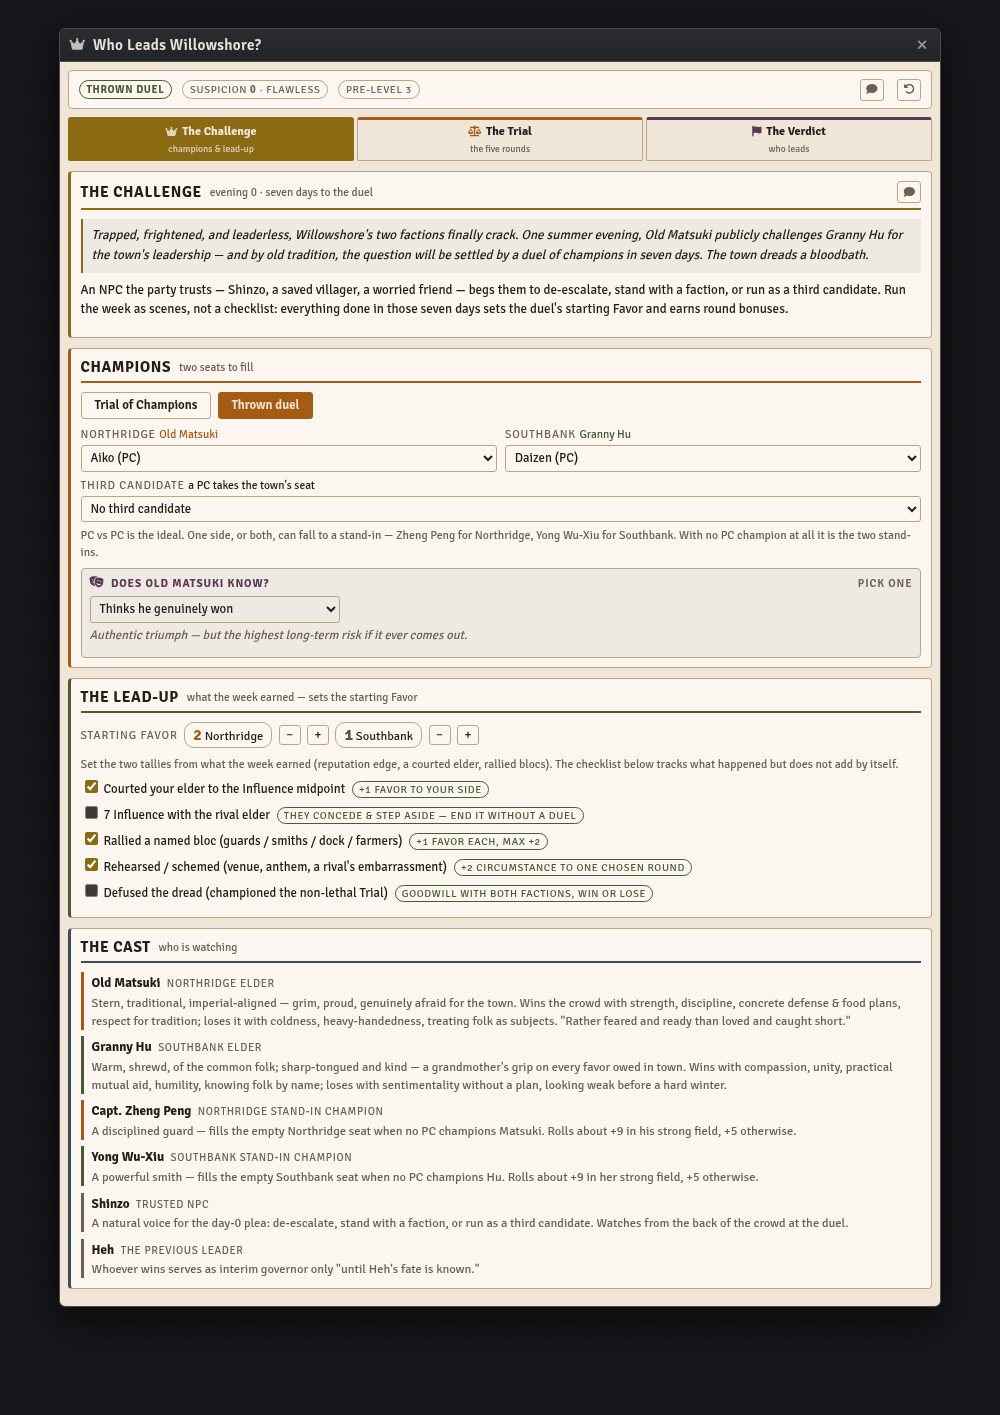
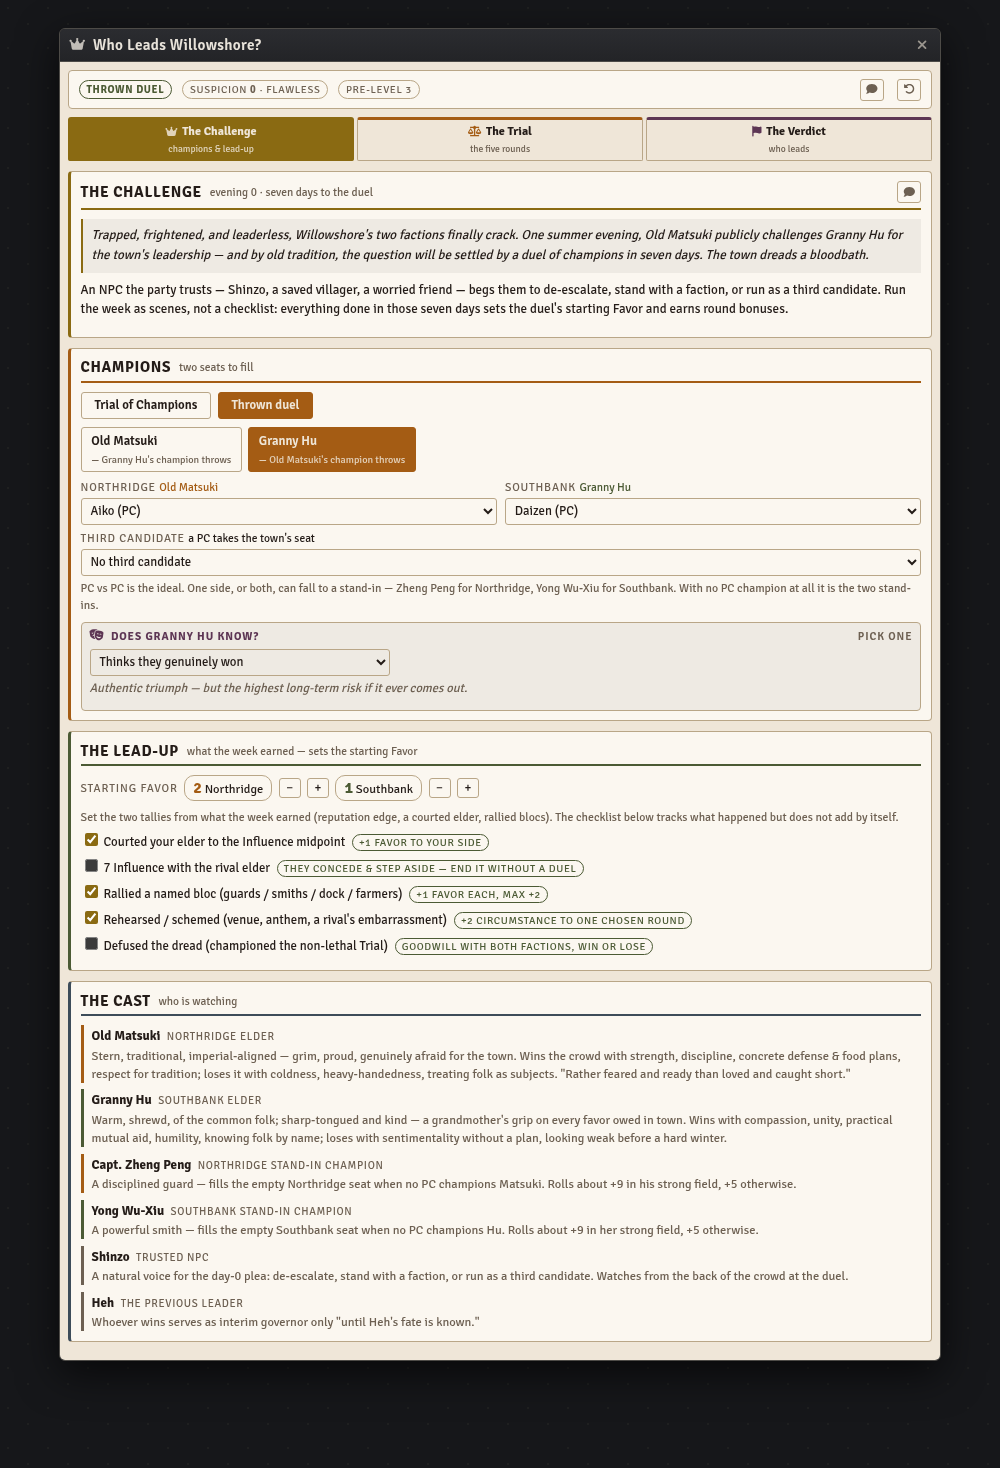
Who Leads Willowshore: selectable fixed winner in the thrown duel (either elder)

Changed region(s): [[0.062, 0.0, 0.93, 0.9329]]

diff --git a/macros/season-of-ghosts/who-leads-willowshore-console.js b/macros/season-of-ghosts/who-leads-willowshore-console.js
@@ -94,10 +94,10 @@ const LEADUP = [
   { key: "defused", label: "Defused the dread (championed the non-lethal Trial)", effect: "goodwill with both factions, win or lose" }
 ];
 
-const MATSUKI_KNOWS = [
+const KNOWS_OPTIONS = [
   { key: "in", label: "In on it", note: "Cleanest, lowest risk — no acting required; the con is airtight." },
-  { key: "won", label: "Thinks he genuinely won", note: "Authentic triumph — but the highest long-term risk if it ever comes out." },
-  { key: "concession", label: "Knows Hu conceded, not that it's thrown", note: "No acting required of him; the fix stays the party's secret." }
+  { key: "won", label: "Thinks they genuinely won", note: "Authentic triumph — but the highest long-term risk if it ever comes out." },
+  { key: "concession", label: "Knows {LE} conceded, not that it's thrown", note: "No acting required of them; the fix stays the party's secret." }
 ];
 
 const ROUNDS = [
@@ -107,7 +107,7 @@ const ROUNDS = [
     dcText: "No fixed DC — the higher degree (then higher total) takes the round; a Society angle (a real, concrete policy) grants +2.",
     text: "Each champion makes the case for their elder before the whole town. Higher degree of success, then higher total, takes the round.",
     crowd: "Faction banners roar; waverers lean toward the better speaker.",
-    thrown: "Hu's champion argues her elder's case half-heartedly and loses with grace — the first sell. Deception or Performance (DC 18) to make the concession read as a close, principled loss.",
+    thrown: "{T} argues {LE}'s case half-heartedly and loses with grace — the first sell. Deception or Performance (DC 18) to make the concession read as a close, principled loss.",
     checks: []
   },
   {
@@ -116,7 +116,7 @@ const ROUNDS = [
     dcText: "Best-of-3 opposed exchanges (attack roll or Athletics); first to two wins. To first yield or disarm.",
     text: "A formal champion's bout to first yield or disarm — non-lethal by the Trial. (Or swap in a formal blood-duel, GM Core pp. 202–203.)",
     crowd: "The loudest round. First blood, if any, flips waverers against the one who drew it.",
-    thrown: "The thrower must fight hard and lose. Deception/Performance DC 18 to sell a valiant near-miss; a clumsy dive reads off. If Hu's champion starts genuinely winning, they have to lose even harder to get back on script.",
+    thrown: "{T} must fight hard and lose. Deception/Performance DC 18 to sell a valiant near-miss; a clumsy dive reads off. If {T} starts genuinely winning, they have to lose even harder to get back on script.",
     checks: []
   },
   {
@@ -125,7 +125,7 @@ const ROUNDS = [
     dcText: "DC 20 Society, or a fitting Lore — or the GM judges the plan the player actually gives.",
     text: "The town's real problem is posed: \"The harvest will fall short and no trade is coming. How do we eat till spring?\" The best plan wins.",
     crowd: "Merchants and farmers swayed; the practical-minded lean to the better plan.",
-    thrown: "Hu's champion offers a solid-but-plain plan and lets Matsuki's \"vision\" outshine it — sell the shrug, not the failure.",
+    thrown: "{T} offers a solid-but-plain plan and lets {W}'s \"vision\" outshine it — sell the shrug, not the failure.",
     checks: ["DC 20 Society"]
   },
   {
@@ -134,7 +134,7 @@ const ROUNDS = [
     dcText: "DC 18 — but judge sincerity over the die.",
     text: "A planted moment of need steps from the crowd — a sick child, a feud between neighbors, a grieving widow. The champion must help, not perform. WORTH DOUBLE FAVOR.",
     crowd: "A cold or cynical handling can lose a champion the whole town, even from ahead.",
-    thrown: "The easiest round to sell — the thrower helps warmly, then defers the credit. But overdoing humility reads as defeatism (+Suspicion).",
+    thrown: "The easiest round to sell — {T} helps warmly, then defers the credit. But overdoing humility reads as defeatism (+Suspicion).",
     checks: ["DC 18 Society", "DC 18 Medicine"],
     double: true
   },
@@ -144,7 +144,7 @@ const ROUNDS = [
     dcText: "Most Favor after Round V wins. A tie is broken by a final opposed Diplomacy before the crowd.",
     text: "Each champion gets one last appeal; then tally all Favor — most Favor acclaims that elder interim governor. The grace note: a unifying gesture (victor honoring loser, loser pledging support) can heal the rift.",
     crowd: "The whole square holds its breath for the tally.",
-    thrown: "THE MONEY SHOT. Matsuki's champion lands the \"deciding\" blow; Hu's champion sells the dramatic, valiant fall — one last Deception/Performance, bonus if Suspicion is low, penalty if high. Granny Hu steps forward, clasps Old Matsuki's hand, and concedes to cheers.",
+    thrown: "THE MONEY SHOT. {W} lands the \"deciding\" blow; {T} sells the dramatic, valiant fall — one last Deception/Performance, bonus if Suspicion is low, penalty if high. {LE} steps forward, clasps {WE}'s hand, and concedes to cheers.",
     checks: []
   }
 ];
@@ -173,7 +173,8 @@ function blankState(pcs) {
     north: { kind: "npc", actorId: "", name: STAND_INS.north },
     south: { kind: "npc", actorId: "", name: STAND_INS.south },
     third: { on: false, kind: "pc", actorId: "", name: "" },
-    matsukiKnows: "in",                  // thrown mode only
+    thrownWinner: "north",               // thrown mode: which elder the fix delivers to
+    knows: "in",                         // thrown mode: does that winner know it's thrown
     favorStart: { north: 0, south: 0 },  // starting Favor set from the lead-up
     leadup: { courted: false, conceded: false, rallied: false, rehearsed: false, defused: false },
     rounds: { r1: null, r2: null, r3: null, r4: null, r5: null },
@@ -265,9 +266,31 @@ class WhoLeads {
     this.touch();
   }
   setKnows(k) {
-    this.s.matsukiKnows = k;
-    this.log(`Old Matsuki knows: ${MATSUKI_KNOWS.find(x => x.key === k)?.label}.`);
+    this.s.knows = k;
+    const opt = KNOWS_OPTIONS.find(x => x.key === k);
+    this.log(`Does ${ELDERS[this.thrownWinnerSide].name} know? — ${this.fillThrown(opt?.label ?? k)}.`);
     this.touch();
+  }
+
+  /* ----- the thrown fix ----- */
+  get thrownWinnerSide() { return this.s.thrownWinner === "south" ? "south" : "north"; }
+  get throwerSide() { return this.thrownWinnerSide === "north" ? "south" : "north"; }
+  get outcomeSide() { return this.s.mode === "thrown" ? this.thrownWinnerSide : this.s.winner; }
+  setThrownWinner(w) {
+    this.s.thrownWinner = w;
+    if (this.s.mode === "thrown") this.s.winner = w;   // keep the verdict in sync
+    this.log(`The fix delivers to ${ELDERS[w].name} — ${ELDERS[this.throwerSide].name}'s champion throws.`);
+    this.touch();
+  }
+  thrownTokens() {
+    const w = this.thrownWinnerSide, t = this.throwerSide;
+    return {
+      "{W}": this.s[w].name, "{T}": this.s[t].name,
+      "{WE}": ELDERS[w].name, "{LE}": ELDERS[t].name
+    };
+  }
+  fillThrown(text) {
+    return Object.entries(this.thrownTokens()).reduce((acc, [k, v]) => acc.split(k).join(v), text);
   }
 
   /* ----- lead-up ----- */
@@ -347,12 +370,12 @@ class WhoLeads {
         rep().southbank = (rep().southbank ?? 0) + d;
         rep().northridge = (rep().northridge ?? 0) + d;
       } else if (key === "backed") {
-        if (this.s.winner === "north") rep().northridge = (rep().northridge ?? 0) + d;
-        else if (this.s.winner === "south") rep().southbank = (rep().southbank ?? 0) + d;
+        if (this.outcomeSide === "north") rep().northridge = (rep().northridge ?? 0) + d;
+        else if (this.outcomeSide === "south") rep().southbank = (rep().southbank ?? 0) + d;
         else ui.notifications.warn("Backing the winner needs a Northridge or Southbank winner selected.");
       } else if (key === "blood") {
-        if (this.s.winner === "north") rep().southbank = (rep().southbank ?? 0) - d;
-        else if (this.s.winner === "south") rep().northridge = (rep().northridge ?? 0) - d;
+        if (this.outcomeSide === "north") rep().southbank = (rep().southbank ?? 0) - d;
+        else if (this.outcomeSide === "south") rep().northridge = (rep().northridge ?? 0) - d;
       }
       await game.settings.set("world", "sogFallDowntime", dt);
     }
@@ -406,7 +429,7 @@ class WhoLeads {
       south: "Granny Hu is acclaimed interim governor of Willowshore. Old Matsuki bows stiffly as the Southbank erupts in cheers.",
       third: `${esc(s.third.name || "A champion")} steps forward to take the town's reins as its new leader.`,
       gm: "The elders step aside, and Willowshore names a new leader to carry it through the coming season."
-    }[s.winner] || "Willowshore names its new leader.";
+    }[this.outcomeSide] || "Willowshore names its new leader.";
     return this.postCard("The People's Verdict", "A new leader for Willowshore",
       `<p style="margin:0">${pro}</p>`, "gold");
   }
@@ -515,6 +538,11 @@ class WLRApp extends BaseApp {
           <button type="button" class="chip ${s.mode === "trial" ? "on" : ""}" data-act="mode" data-m="trial" ${ro ? "disabled" : ""}>Trial of Champions</button>
           <button type="button" class="chip ${s.mode === "thrown" ? "on" : ""}" data-act="mode" data-m="thrown" ${ro ? "disabled" : ""}>Thrown duel</button>
         </div>
+        ${s.mode === "thrown" ? `
+        <div class="fixrow">
+          ${["north", "south"].map(w => `<button type="button" class="chip ${t.thrownWinnerSide === w ? "on" : ""}" data-act="fixwinner" data-w="${w}" ${ro ? "disabled" : ""}>
+            ${esc(ELDERS[w].name)}<small>— ${esc(ELDERS[w === "north" ? "south" : "north"].name)}'s champion throws</small></button>`).join("")}
+        </div>` : ""}
         <div class="champgrid">
           <label class="champsel"><span class="side n">Northridge <i>${esc(ELDERS.north.name)}</i></span>
             <select data-act="champ" data-side="north" ${ro ? "disabled" : ""}>${this.champOptions("north")}</select></label>
@@ -526,11 +554,11 @@ class WLRApp extends BaseApp {
         <p class="hint">PC vs PC is the ideal. One side, or both, can fall to a stand-in — Zheng Peng for Northridge, Yong Wu-Xiu for Southbank. With no PC champion at all it is the two stand-ins.</p>
         ${s.mode === "thrown" ? `
         <div class="knows">
-          <div class="subhead"><i class="fa-solid fa-masks-theater"></i> Does Old Matsuki know? <span>pick one</span></div>
+          <div class="subhead"><i class="fa-solid fa-masks-theater"></i> Does ${esc(ELDERS[t.thrownWinnerSide].name)} know? <span>pick one</span></div>
           <select data-act="knows" ${ro ? "disabled" : ""}>
-            ${MATSUKI_KNOWS.map(k => `<option value="${k.key}" ${s.matsukiKnows === k.key ? "selected" : ""}>${k.label}</option>`).join("")}
+            ${KNOWS_OPTIONS.map(k => `<option value="${k.key}" ${s.knows === k.key ? "selected" : ""}>${esc(t.fillThrown(k.label))}</option>`).join("")}
           </select>
-          <p class="note">${MATSUKI_KNOWS.find(k => k.key === s.matsukiKnows)?.note ?? ""}</p>
+          <p class="note">${esc(t.fillThrown(KNOWS_OPTIONS.find(k => k.key === s.knows)?.note ?? ""))}</p>
         </div>` : ""}
       </section>
 
@@ -600,7 +628,7 @@ class WLRApp extends BaseApp {
   roundPanel(r, ro) {
     const t = this.t, s = t.s;
     const cur = s.rounds[r.key];
-    const body = s.mode === "thrown" && r.thrown ? r.thrown : r.text;
+    const body = s.mode === "thrown" && r.thrown ? t.fillThrown(r.thrown) : r.text;
     const vals = s.mode === "trial"
       ? [["n", `North ${r.double ? "+4" : "+2"}`], ["N", `North ${r.double ? "+6" : "+3"} crit`],
          ["s", `South ${r.double ? "+4" : "+2"}`], ["S", `South ${r.double ? "+6" : "+3"} crit`],
@@ -628,10 +656,12 @@ class WLRApp extends BaseApp {
       <section class="panel" style="--tone:var(--plum)">
         <h3>Who Leads <small>interim governor, until Heh's fate is known</small>
           <button type="button" class="say" data-act="postverdict" title="Post the verdict"><i class="fa-solid fa-comment"></i></button></h3>
-        <div class="winrow">
-          ${WINNERS.map(w => `<button type="button" class="wbtn ${s.winner === w.key ? "on" : ""}" style="--tt:var(--${TONES.includes(w.tone) ? w.tone : "muted"})" data-act="winner" data-w="${w.key}" ${ro ? "disabled" : ""}>
-            <b>${w.label}</b><small>${w.sub}</small></button>`).join("")}
-        </div>
+        ${s.mode === "trial"
+          ? `<div class="winrow">
+              ${WINNERS.map(w => `<button type="button" class="wbtn ${s.winner === w.key ? "on" : ""}" style="--tt:var(--${TONES.includes(w.tone) ? w.tone : "muted"})" data-act="winner" data-w="${w.key}" ${ro ? "disabled" : ""}>
+                <b>${w.label}</b><small>${w.sub}</small></button>`).join("")}
+            </div>`
+          : `<p class="text">The fix delivers to <b>${esc(ELDERS[t.thrownWinnerSide].name)}</b> — set on the Challenge tab. ${esc(ELDERS[t.throwerSide].name)}'s champion throws the fight.</p>`}
       </section>
 
       <section class="panel" style="--tone:var(--moss)">
@@ -665,6 +695,7 @@ class WLRApp extends BaseApp {
       const a = btn.dataset.act;
       if (a === "tab") { t.s.tab = btn.dataset.k; t.touch(); }
       else if (a === "mode") t.setMode(btn.dataset.m);
+      else if (a === "fixwinner") t.setThrownWinner(btn.dataset.w);
       else if (a === "fav") t.setFavorStart(btn.dataset.side, Number(btn.dataset.d));
       else if (a === "round") t.setRound(btn.dataset.k, btn.dataset.code);
       else if (a === "winner") t.setWinner(btn.dataset.w);
@@ -755,6 +786,10 @@ class WLRApp extends BaseApp {
       .wlw .moderow { display:flex; gap:.4rem; margin-bottom:.5rem; }
       .wlw .chip { padding:.3rem .8rem; font-size:.8rem; font-weight:600; }
       .wlw .chip.on { background:var(--ember); border-color:var(--ember); color:var(--paper); }
+      .wlw .fixrow { display:flex; gap:.4rem; flex-wrap:wrap; margin-bottom:.5rem; }
+      .wlw .fixrow .chip { flex-direction:column; align-items:flex-start; padding:.3rem .6rem; text-align:left; white-space:normal; }
+      .wlw .fixrow .chip small { font-size:.64rem; font-weight:400; color:var(--muted); }
+      .wlw .fixrow .chip.on small { color:var(--paper); opacity:.85; }
       .wlw .champgrid { display:grid; grid-template-columns:1fr 1fr; gap:.5rem; margin-bottom:.4rem; }
       .wlw .champsel { display:flex; flex-direction:column; gap:.25rem; font-size:.72rem; }
       .wlw .champsel .side { text-transform:uppercase; letter-spacing:.07em; color:var(--muted); }

diff --git a/tools/preview/fixtures.js b/tools/preview/fixtures.js
@@ -784,7 +784,8 @@ globalThis.FIXTURES = {
       mode: "thrown",
       north: { kind: "pc", actorId: "pc3", name: "Miyu" },
       south: { kind: "pc", actorId: "pc4", name: "Tenzo" },
-      matsukiKnows: "in",
+      thrownWinner: "north",
+      knows: "in",
       rounds: { r1: "k", r2: "b", r3: "c", r4: "k", r5: null },
       winner: "north",
       leadup: { rehearsed: true, defused: true }
@@ -803,9 +804,24 @@ globalThis.FIXTURES = {
       mode: "thrown",
       north: { kind: "pc", actorId: "pc1", name: "Aiko" },
       south: { kind: "pc", actorId: "pc2", name: "Daizen" },
-      matsukiKnows: "won",
+      thrownWinner: "south",
+      knows: "won",
       favorStart: { north: 2, south: 1 },
       leadup: { courted: true, rallied: true, rehearsed: true }
+    }
+  },
+
+  /* The thrown duel reversed — Granny Hu is the fixed winner, so Matsuki's
+     champion (Aiko) throws. Read on the trial tab to see the round text flip. */
+  "duel-thrown-south": {
+    "world.sogWhoLeads": {
+      tab: "trial",
+      mode: "thrown",
+      north: { kind: "pc", actorId: "pc1", name: "Aiko" },
+      south: { kind: "pc", actorId: "pc2", name: "Daizen" },
+      thrownWinner: "south",
+      knows: "concession",
+      rounds: { r1: "c", r2: "k", r3: "c", r4: "g", r5: null }
     }
   },
 
@@ -821,6 +837,26 @@ globalThis.FIXTURES = {
       rounds: { r1: "n", r2: "s", r3: "S", r4: "s", r5: "t" },
       winner: "south",
       beats: { rift: true },
+      leveled: true
+    },
+    "world.sogFallDowntime": {
+      pools: { hope: 8, food: 6, security: 5, restoration: 2 },
+      rep: { southbank: 1, northridge: 2 }
+    }
+  },
+
+  /* The verdict tab in thrown mode: the fix delivers to Old Matsuki, no
+     winner buttons, the write-through beats still offered. */
+  "duel-verdict-thrown": {
+    "world.sogWhoLeads": {
+      tab: "verdict",
+      mode: "thrown",
+      north: { kind: "pc", actorId: "pc3", name: "Miyu" },
+      south: { kind: "pc", actorId: "pc4", name: "Tenzo" },
+      thrownWinner: "north",
+      knows: "in",
+      rounds: { r1: "c", r2: "c", r3: "g", r4: "c", r5: "c" },
+      winner: "north",
       leveled: true
     },
     "world.sogFallDowntime": {

diff --git a/macros/season-of-ghosts/README.md b/macros/season-of-ghosts/README.md
@@ -189,7 +189,7 @@ Old Matsuki publicly challenges Granny Hu for the town's leadership, settled by 
 - **Champion selection** for both seats: any PC for Northridge or Southbank, with Capt. Zheng Peng and Yong Wu-Xiu as the NPC stand-ins when a seat is empty, plus a third-candidate option
 - **The seven-day lead-up**: starting-Favor steppers set from the week's scenes, with the reputation / influence / rally / rehearse / defuse levers as a tracked checklist
 - **The five-round Trial of Champions** on two live Favor tallies — the Address, the bout (best-of-3), the winter riddle, the People (double Favor), and the Verdict — each round's checks posted to chat as rollable inline checks
-- **The thrown-duel variant** from *The Worked Duel*: Hu has conceded privately and the party stages a face-saving fix, scored on a Suspicion track (0–3 Flawless / 4–6 Whispers / 7+ Exposed) with per-round sell deltas, a blowout toggle, and the money-shot finale
+- **The thrown-duel variant** from *The Worked Duel*: the conceding elder and the fix's winner are both selectable, so the "does the winner know?" panel and every round's sell text flip to match; scored on a Suspicion track (0–3 Flawless / 4–6 Whispers / 7+ Exposed) with per-round sell deltas, a blowout toggle, and the money-shot finale
 - A **verdict tab** that declares the winner, applies the reversible write-through beats (heal the rift → Hope + Reputation, back the winner, or a bloodbath) to the Fall Downtime Tracker's pools, and marks the level-up to 3
 - Read-aloud for the challenge and the verdict posted to chat in-world; the cast (both elders, the stand-ins, Shinzo, and Heh's shadow) on the landing tab
 

diff --git a/CHANGELOG.md b/CHANGELOG.md
@@ -1,5 +1,16 @@
 # Changelog
 
+## 2026-08-16 08:44
+
+### Changed
+- Who Leads Willowshore?: the thrown-duel variant no longer hardcodes Granny Hu as the
+  conceding elder. A **"the fix delivers to"** selector on the Challenge tab picks the fixed
+  winner — Old Matsuki or Granny Hu — and the whole thrown surface follows it: the
+  "does the winner know?" panel (and its "knows the other conceded" option), every round's
+  sell text (which champion throws, which lands the money-shot blow, which elder concedes),
+  and the verdict tab's "the fix delivers to" line all re-name themselves to the chosen
+  elder and champions.
+
 ## 2026-08-16 03:31
 
 ### Added
